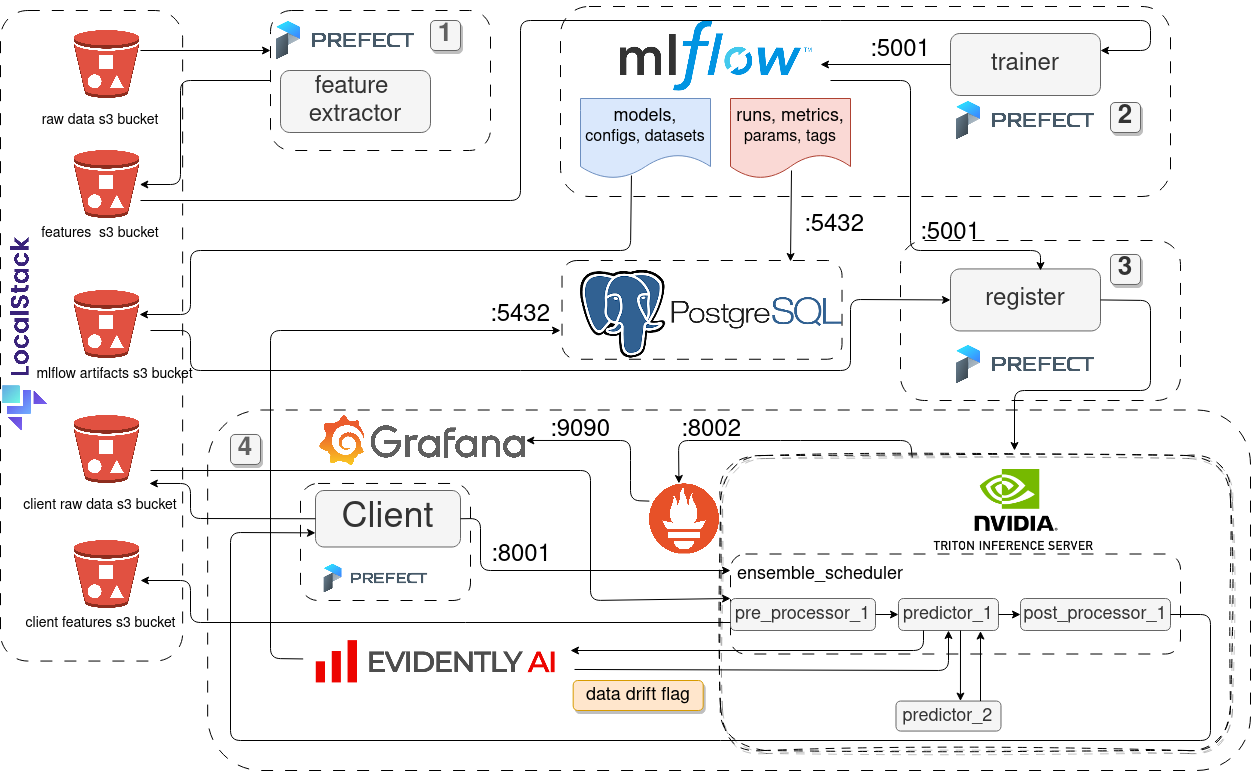
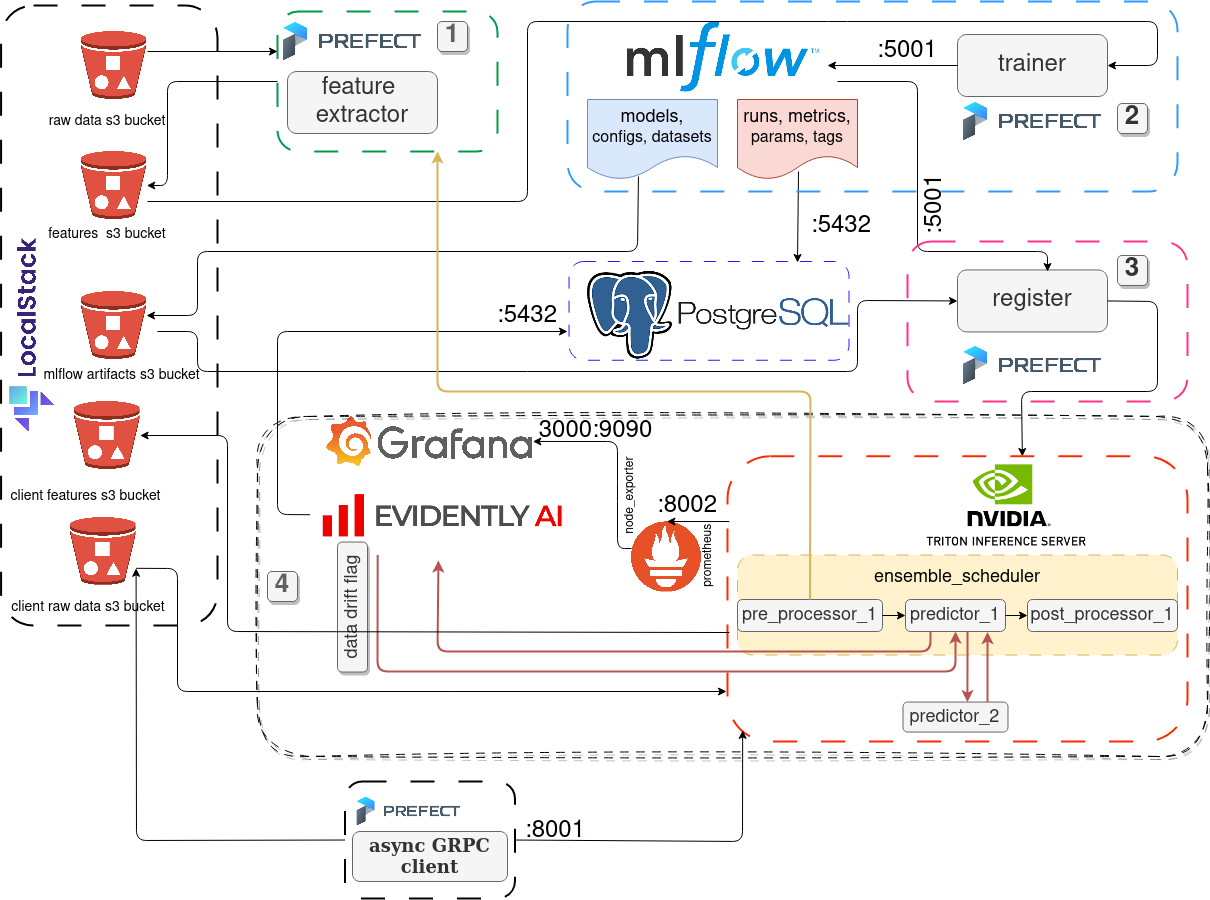
docs: fix arch

diff --git a/src/deploy/triton_models/pre_processor_1/1/model.py b/src/deploy/triton_models/pre_processor_1/1/model.py
@@ -5,8 +5,9 @@ from typing import Dict, List, Text, Tuple
 
 import c_python_backend_utils as c_pb_utils
 import numpy as np
-import preprocessing.utils as utils
 import triton_python_backend_utils as pb_utils
+
+import preprocessing.utils as utils
 from preprocessing.feature_extractor import run_feature_extraction_in_parallel
 
 RAW_BUCKET = os.getenv("S3_CLIENT_RAW_BUCKET", "raw-client")

diff --git a/README.md b/README.md
@@ -86,23 +86,23 @@ Pipfile # requirements for audioprocessor_dev image
 Pipfile.lock
 README.md
 configs
-   |-- grafana_dashboards.yaml
-   |-- grafana_datasources.yaml
+   |-- grafana_dashboards.yaml # dashboards config
+   |-- grafana_datasources.yaml # datasources config
    |-- init.sql # creates databases when PostgreSQL starts
    |-- prometheus.yaml # prometheus datasources
 dashboards
    |-- model_metrics.json # Grafana Dashboard
 data
    |-- artifacts # registered models from mlflow
-   |   |-- 1
-   |   |-- 2
+   |   |-- 1 # the best model
+   |   |-- 2 # second best model
    |-- processed # vectorized features to train ML models
-   |   |-- feature_names.pkl
-   |   |-- target_encoder.pkl
-   |   |-- test.pkl
-   |   |-- train.pkl
-   |   |-- train_subset.pkl
-   |   |-- val.pkl
+   |   |-- feature_names.pkl # feature names (w/o target)
+   |   |-- target_encoder.pkl # str->int
+   |   |-- test.pkl # test data
+   |   |-- train.pkl # train data
+   |   |-- train_subset.pkl # train subset
+   |   |-- val.pkl # validation data
    |-- raw
    |   |-- genres_original_eval # test data
    |   |   |-- blues
@@ -392,7 +392,7 @@ After that go inside client container and run inference on test data:
 
 ```
 
-The data is chosen so that the data drift must occur, so it is the expected behavior that models performs bad.
+The data is chosen so that the data drift must occur, so it is the expected behavior that models perform bad.
 
 ### Models monitoring
 
@@ -408,11 +408,11 @@ As mentioned above, when first model makes prediction for batch, evidently calcu
 - [x] Worfkow orchestration: workflow is fully deployed but requires some manual actions due to Triton Inference Server nature
 - [x] Model deployment: special tools for model deployment used (Triton Inference Server and Triton Inference Client for requests)
 - [x] Model monitoring: comprehensive model monitoring that runs a conditional workflow (switching to different model if data drift occurs) and generates dashboards for service health and data drift metrics
-- [x] Reproducibility: instructions are clear (I hope so:)), it's easy to run the code (I hope so too :)) and it must work, I tested it
+- [x] Reproducibility: instructions are clear (I hope so:)), it's easy to run the code (I hope so too :)) and it must work, I tested
 - [ ] Best practices:
   - [x] There are [unit tests](tests/test_audios.py)
   - [ ] There is an integration test [?] there is no separate integration test, I just run all the code inside docker containers and it worked. I don't understand what else is expected after unit tests.
   - [x] Linters (flake8, pylint) and code formatter (black) are used
   - [x] There are a lot of makefiles ([makefile for project](Makefile), [makefiles for services](makefiles))
   - [x] There are [pre-commit hooks](.pre-commit-config.yaml) for quality checks
-  - [x] There's a [CI/CD pipeline](.github/workflows/test.yaml): `build_dev_image` builds and pushes dev image to dockerhub (CD), `run_unit_tests` runs unit tests and computes code coverage from builded image (CI), `build_conda_pack` builds conda environment for Triton Inference server and returns archive as artifact (CD)
+  - [x] There's a [CI/CD pipeline](.github/workflows/test.yaml): `build_dev_image` builds and pushes `audioprocessor_dev` image to dockerhub (CD), `run_unit_tests` runs unit tests and computes code coverage from builded image (CI), `build_conda_pack` builds conda environment for Triton Inference server and returns archive as artifact (CD)
